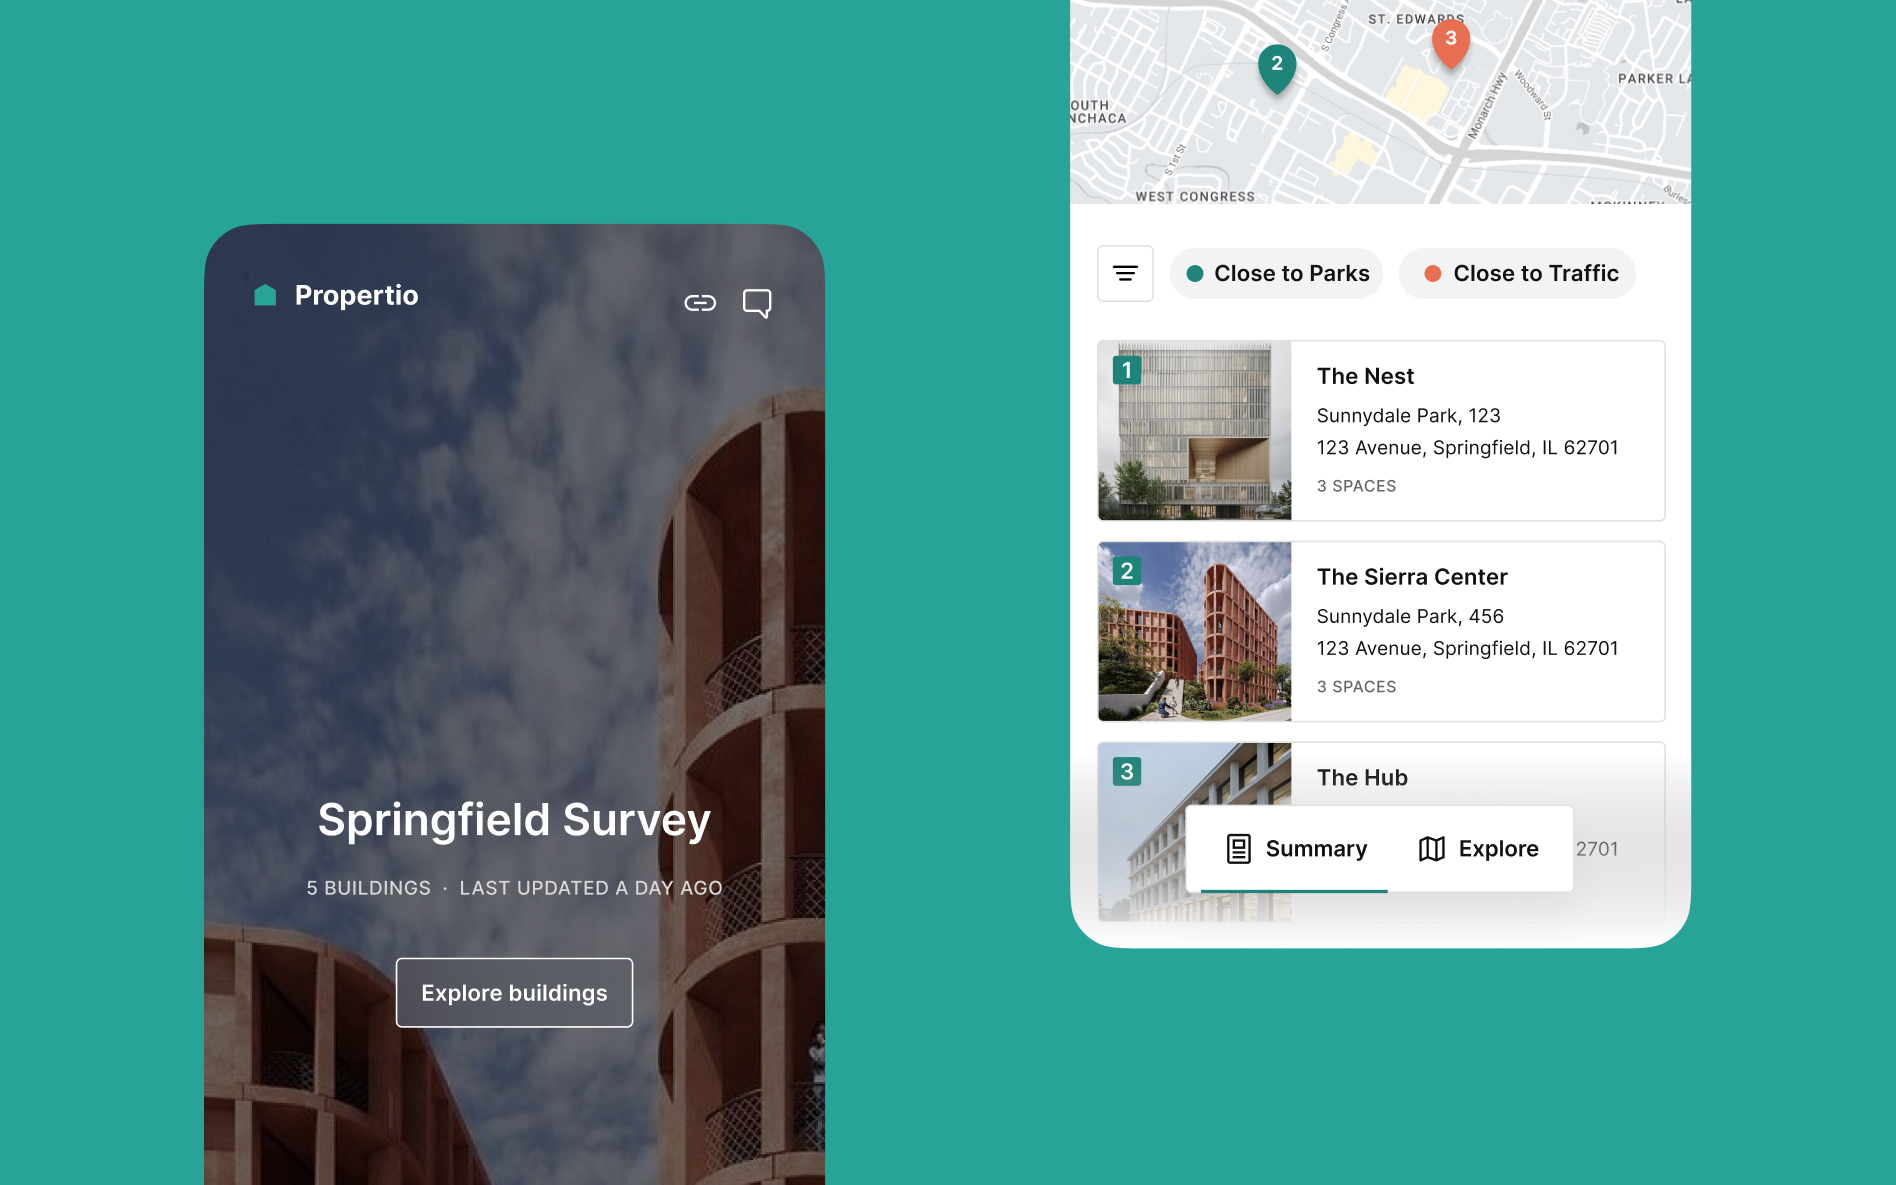
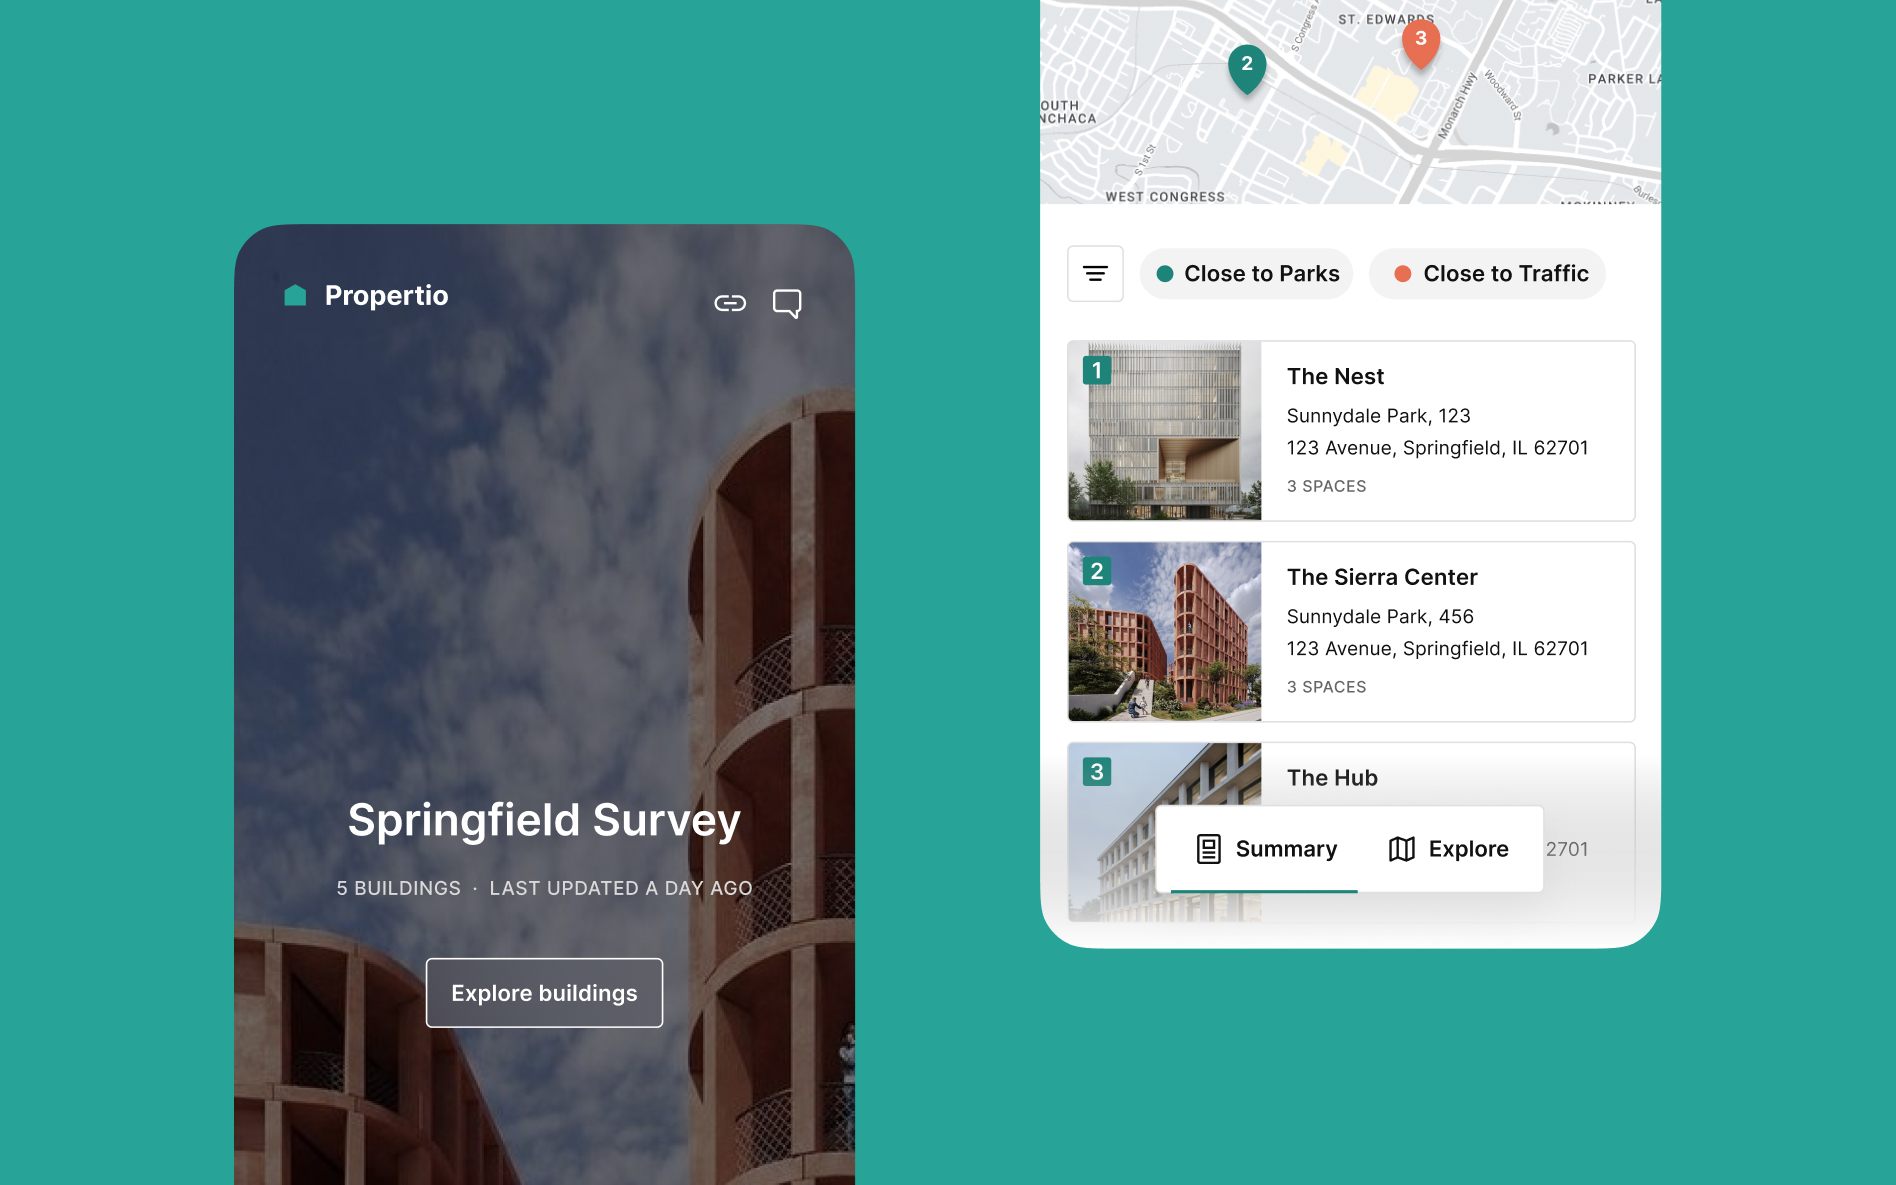
novo

diff --git a/projects/otti-berger.html b/projects/otti-berger.html
@@ -4,7 +4,7 @@
 <head>
     <meta charset="UTF-8">
     <meta name="viewport" content="width=device-width, initial-scale=1.0">
-    <title>INmusic festival · Teo Peter</title>
+    <title>Who is Otti Berger? · Teo Peter</title>
     <meta name="description" content="Split payments system project by Teo Peter">
     <link rel="preconnect" href="https://fonts.googleapis.com">
     <link rel="preconnect" href="https://fonts.gstatic.com" crossorigin>